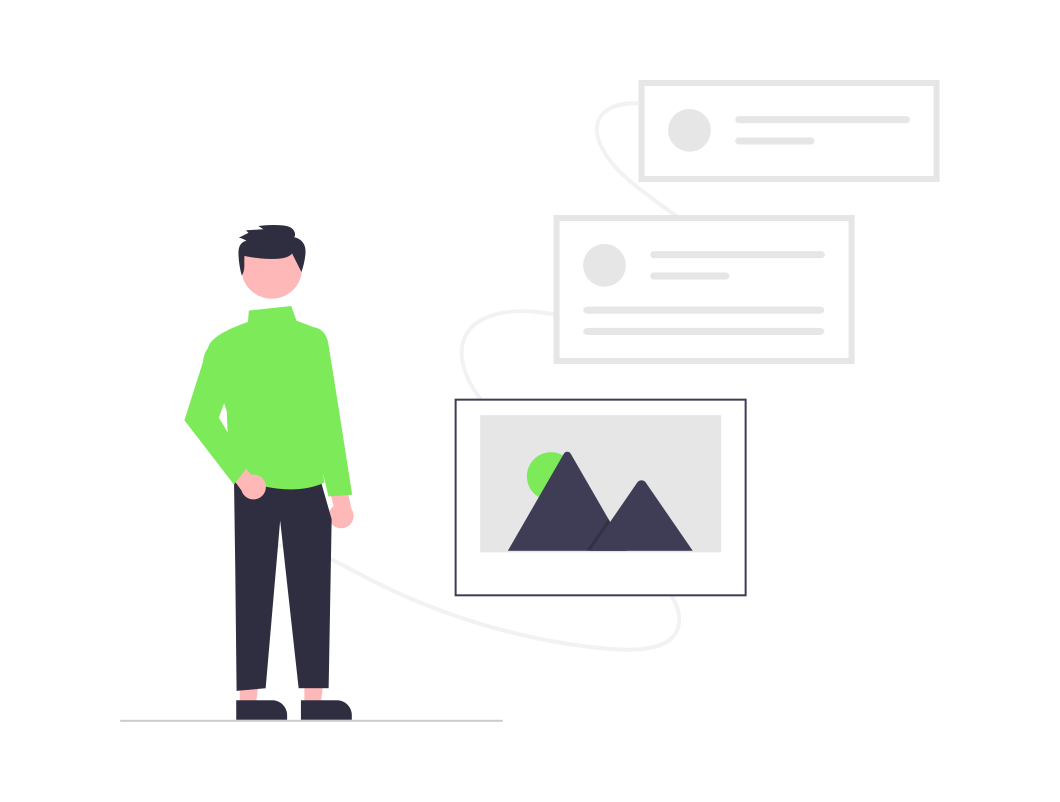
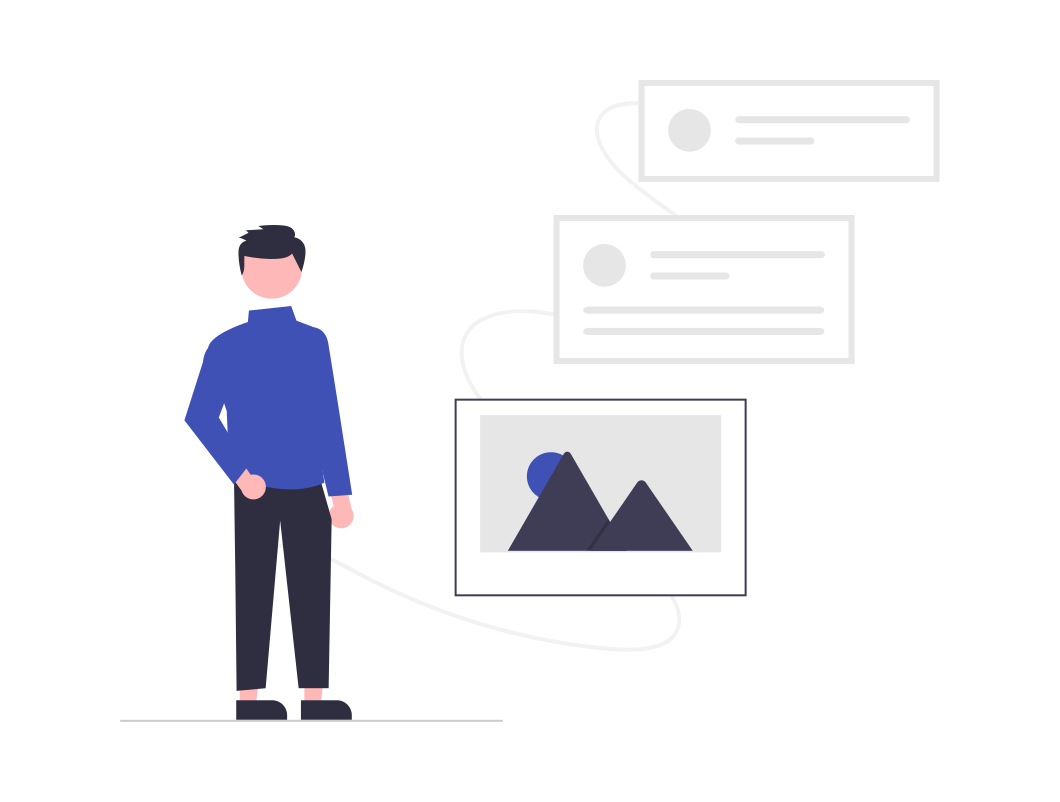
Create Page and Theme Change

Changed region(s): [[0.1557, 0.3741, 0.3425, 0.6234], [0.4981, 0.5611, 0.5292, 0.6234]]

diff --git a/angular/src/app/question/question.component.html b/angular/src/app/question/question.component.html
@@ -1,26 +1,49 @@
-<div class="content">
-    <mat-selection-list #items>
-        <mat-list-option *ngFor="let item of items$ | async" [value]="item.id">
-            {{item.name}}
-        </mat-list-option>
-    </mat-selection-list>
-    <div class="bottom" fxLayout="row" fxLayoutAlign="space-between center">
-        <div class="new-item">
-            <mat-form-field>
-                <mat-label>New question</mat-label>
-                <input matInput #input>
-            </mat-form-field>
-            <button 
-                mat-raised-button 
-                (click)="addItem(input.value)">
-                Add
-            </button>
+<form [formGroup]="myForm" fxLayout= "column" fxLayoutAlign="center">
+
+    <mat-form-field>
+        <input matInput placeholder="Enter Test/Survey Name" formControlName="email">
+
+        <mat-error *ngIf="email.pristine">
+            Please Enter a Test/Survey Name
+        </mat-error>
+
+    </mat-form-field>
+
+    <div formArrayName="phones">
+
+        <div *ngFor ="let phone of phoneForms.controls; let i=index" [formGroupName]="i">
+
+
+            <div fxLayout="column" fxLayoutAlign="space-between start">
+                <mat-card-title>
+                    <h3>Question #{{i}}</h3>
+                </mat-card-title>
+                
+                <mat-form-field>
+                    <input matInput placeholder="area" formControlName="area">
+                </mat-form-field>
+    
+    
+                <mat-form-field>
+                    <input matInput placeholder="prefix" formControlName="prefix">
+                </mat-form-field>
+    
+                <mat-form-field>
+                    <input matInput placeholder="line" formControlName="line">
+                </mat-form-field>
+    
+                <button mat-raised-button color="warn" (click)="deletePhone(i)">Delete</button>
+
+            </div>
+
+
         </div>
-        <button 
-            mat-raised-button 
-            *ngIf="items.selectedOptions.selected.length > 0"
-            (click)="removeItems(items.selectedOptions.selected)">
-            Complete Selected
-        </button>
     </div>
-</div>
+
+    <br>
+    <button mat-raised-button (click)="addPhone()">Add Question</button>
+
+    <br>
+    <button mat-raised-button [disabled]="myForm.invalid" color=primary>Submit</button>
+
+</form>

diff --git a/angular/src/app/question/question.component.ts b/angular/src/app/question/question.component.ts
@@ -1,14 +1,11 @@
 import { Component, Input, OnInit } from '@angular/core';
 import { AngularFirestore } from '@angular/fire/firestore';
+import { FormBuilder, FormGroup, FormArray, Validators} from '@angular/forms';
 import { MatListOption } from '@angular/material/list';
 import { ActivatedRoute, Router } from '@angular/router';
 import { Observable } from 'rxjs';
 
-export interface Question {
-  id?: string;
-  userId: string;
-  name: string;
-}
+
 
 @Component({
   selector: 'app-question',
@@ -16,37 +13,51 @@ export interface Question {
   styleUrls: ['./question.component.scss']
 })
 export class QuestionComponent implements OnInit {
-  items$: Observable<Question[]>;
   id: string;
+  myForm : FormGroup;
 
 
   constructor(
     private afs: AngularFirestore, 
-    private route: ActivatedRoute
+    private route: ActivatedRoute,
+    private fb: FormBuilder
     ) {this.route.params.subscribe(params=>{
       this.id = params.id;
     })}
 
 
   ngOnInit(): void {
-    this.items$ = this.afs
-      .collection<Question>('question', (ref) =>
-        ref.where('userId', '==', this.id)
-      )
-      .valueChanges({ idField: 'id' });
+    this.myForm = this.fb.group({
+      email: ['', [
+        Validators.required,
+      ]],
+      phones: this.fb.array([])
+    });
   }
 
-  addItem(name: string): void {
-    if (name) {
-      const userId = this.id;
-      this.afs.collection<Question>('question').add({ userId, name });
-    }
+  get phoneForms(){
+    return this.myForm.get('phones') as FormArray
   }
 
-  removeItems(selected: MatListOption[]): void {
-    for (const item of selected) {
-      this.afs.doc<Question>(`question/${item.value}`).delete();
-    }
+  get email(){
+      return this.myForm.get('email');
+  }
+
+  addPhone(){
+
+    const phone = this.fb.group({
+        area: [], 
+        prefix: [],
+        line: [],
+    })
+
+    this.phoneForms.push(phone);
+
+  }
+
+
+  deletePhone(i){
+    this.phoneForms.removeAt(i);
   }
 
 }

diff --git a/angular/src/app/home/home.component.html b/angular/src/app/home/home.component.html
@@ -9,17 +9,17 @@
           <p>{{user.email}}</p>
         </div>
       </div>
-      <button mat-raised-button (click)="auth.signOut()">Sign Out</button>
+      <button mat-raised-button (click)="auth.signOut()" color="blue">Sign Out</button>
     </div>
 
   <mat-divider></mat-divider>
 
     <div fxLayout= "column" fxLayoutGap="15px">
-    <button routerLink="/todo/{{user.uid}}" mat-raised-button color = "green"> ToDo Example</button>
-    <button routerLink="/create/{{user.uid}}" mat-raised-button color = "green"> Create: Test/Survey</button>
-    <button routerLink="/take/{{user.uid}}" mat-raised-button color = "green"> Take: Test/Survey</button>
-    <button routerLink="/edit/{{user.uid}}" mat-raised-button color = "green"> Edit: Test/Survey</button>
-    <button routerLink="/grade/{{user.uid}}" mat-raised-button color = "green"> Grade and View Results</button>
+    <button routerLink="/todo/{{user.uid}}" mat-raised-button color = "blue"> ToDo Example</button>
+    <button routerLink="/create/{{user.uid}}" mat-raised-button color = "blue"> Create: Test/Survey</button>
+    <button routerLink="/take/{{user.uid}}" mat-raised-button color = "blue"> Take: Test/Survey</button>
+    <button routerLink="/edit/{{user.uid}}" mat-raised-button color = "blue"> Edit: Test/Survey</button>
+    <button routerLink="/grade/{{user.uid}}" mat-raised-button color = "blue"> Grade and View Results</button>
     </div>
 </div>
 
@@ -29,7 +29,7 @@
   <div fxLayout="column" fxLayoutAlign="space-between center">
     <h1 id="title">Welcome to Test/Survey System</h1>
     <img id="title_image" src="assets/titleundraw.png">
-    <button mat-raised-button (click)="auth.googleSignin()">Sign In with Google</button>
+    <button mat-raised-button (click)="auth.googleSignin()" color= "blue">Sign In with Google</button>
   </div>
 </ng-template>
 

diff --git a/angular/src/app/app.module.ts b/angular/src/app/app.module.ts
@@ -7,11 +7,17 @@ import { AngularFireModule } from '@angular/fire';
 import { AngularFireAuthModule } from '@angular/fire/auth';
 import { AngularFirestoreModule } from '@angular/fire/firestore';
 
+import {ReactiveFormsModule} from '@angular/forms';
+
+import {MatCheckboxModule} from '@angular/material/checkbox';
+import {MatChipsModule} from '@angular/material/chips'
 import { MatButtonModule } from '@angular/material/button';
 import { MatDividerModule } from '@angular/material/divider';
 import { MatInputModule } from '@angular/material/input';
 import { MatListModule } from '@angular/material/list';
 import { MatToolbarModule } from '@angular/material/toolbar';
+import {MatSelectModule} from '@angular/material/select';
+import {MatCardModule} from '@angular/material/card'
 
 import { AppRoutingModule } from './app-routing.module';
 import { AppComponent } from './app.component';
@@ -48,6 +54,11 @@ import { QuestionComponent } from './question/question.component';
     MatInputModule,
     MatListModule,
     MatToolbarModule,
+    MatSelectModule,
+    MatCheckboxModule,
+    MatChipsModule,
+    ReactiveFormsModule,
+    MatCardModule
   ],
   providers: [],
   bootstrap: [AppComponent],

diff --git a/angular/src/app/question/question.component.scss b/angular/src/app/question/question.component.scss
@@ -1,13 +1,9 @@
-.content {
-    padding: 1.5rem;
-    border-radius: 1rem;
-    background-color: #fcfcfc;
+
+mat-form-field {
+    width: 100%;
 }
 
-.new-item {
-    margin: 1rem 1rem 0 1rem;
-
-    mat-form-field {
-        margin-right: 1rem;
-    }
+.example-additional-selection {
+    opacity: 0.75;
+    font-size: 0.75em;
 }

diff --git a/angular/src/index.html b/angular/src/index.html
@@ -2,7 +2,7 @@
 <html lang="en">
 <head>
   <meta charset="utf-8">
-  <title>Angular</title>
+  <title>Test/Survey System</title>
   <base href="/">
   <meta name="viewport" content="width=device-width, initial-scale=1">
   <link rel="icon" type="image/x-icon" href="favicon.ico">

diff --git a/angular/src/app/home/home.component.scss b/angular/src/app/home/home.component.scss
@@ -12,10 +12,10 @@ mat-toolbar {
     height: auto;
   }
 
-.mat-raised-button.mat-green:hover{
-    background-color: #7CEA59;
-    color: black;
- }
+  .mat-raised-button.mat-blue:hover{
+    background-color: #3f51b5;
+    color: white;
+  }
 
 .header {
     width: 200%;

diff --git a/angular/src/app/create/create.component.html b/angular/src/app/create/create.component.html
@@ -1,4 +1,8 @@
-<h1>Create</h1>
+<div fxLayout="column" fxLayoutAlign="center">
+    <h1 id=title >Create Test / Survey</h1>
+    <app-question></app-question>
+</div>
 
-<app-question></app-question>
+
+
 

diff --git a/angular/src/styles.scss b/angular/src/styles.scss
@@ -1,5 +1,5 @@
 /* You can add global styles to this file, and also import other style files */
-
+@import '@angular/material/prebuilt-themes/indigo-pink.css';
 html,
 body {
   height: 100%;

diff --git a/angular/src/app/create/create.component.scss b/angular/src/app/create/create.component.scss
@@ -1,0 +1,5 @@
+#title {
+    color: #47525E;
+    font-size: 300%;
+  }
+
